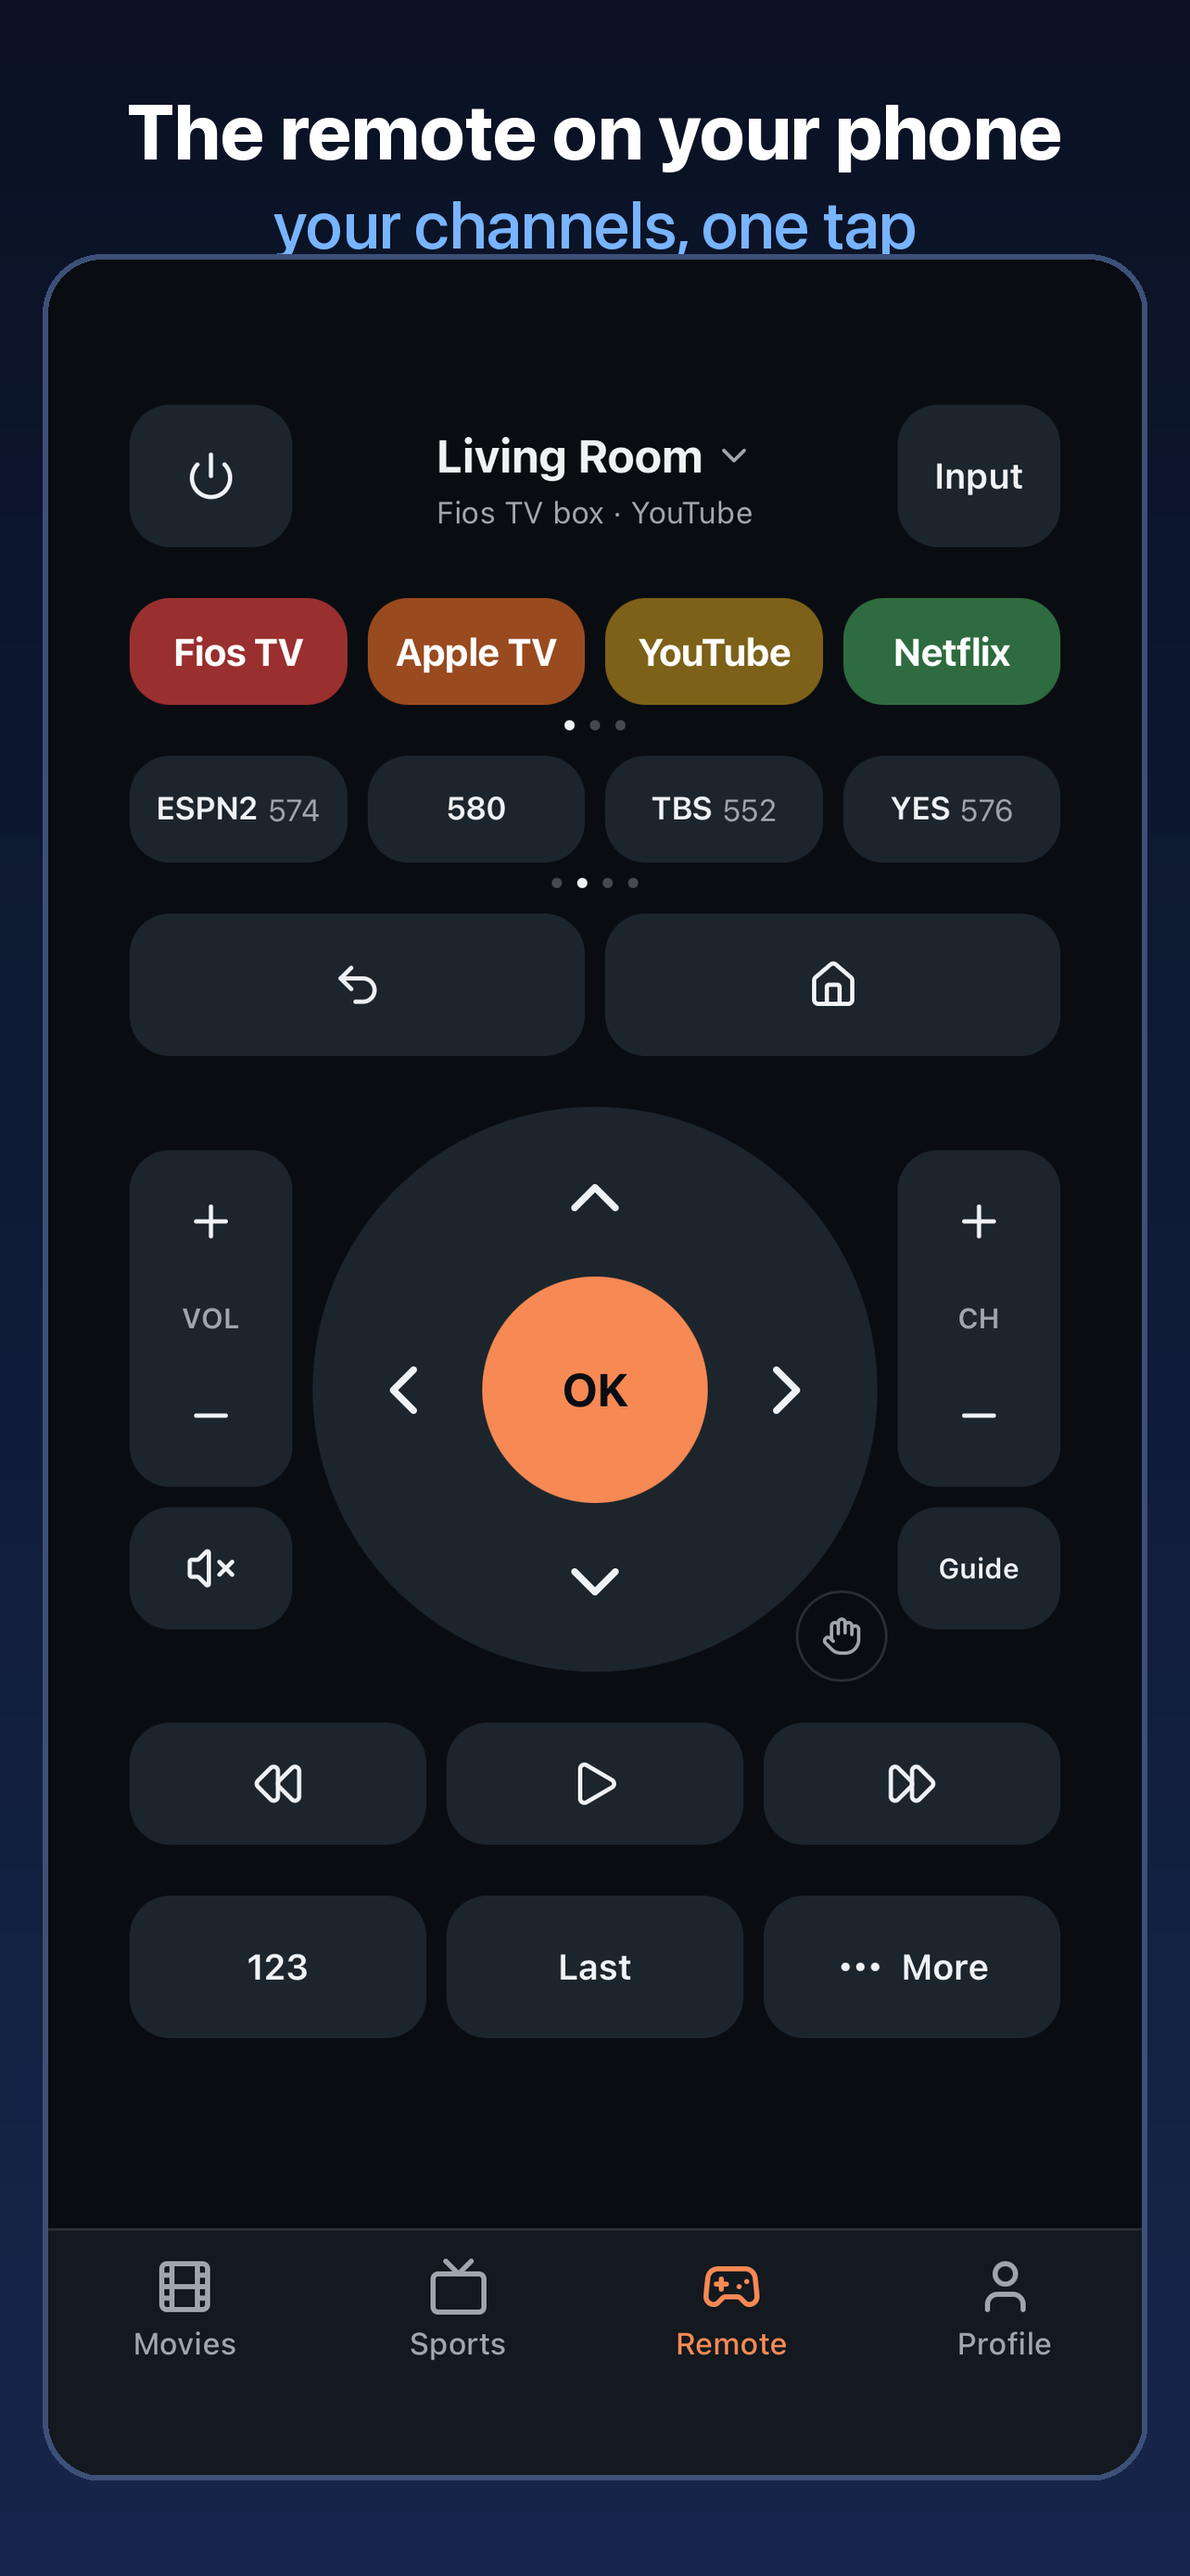
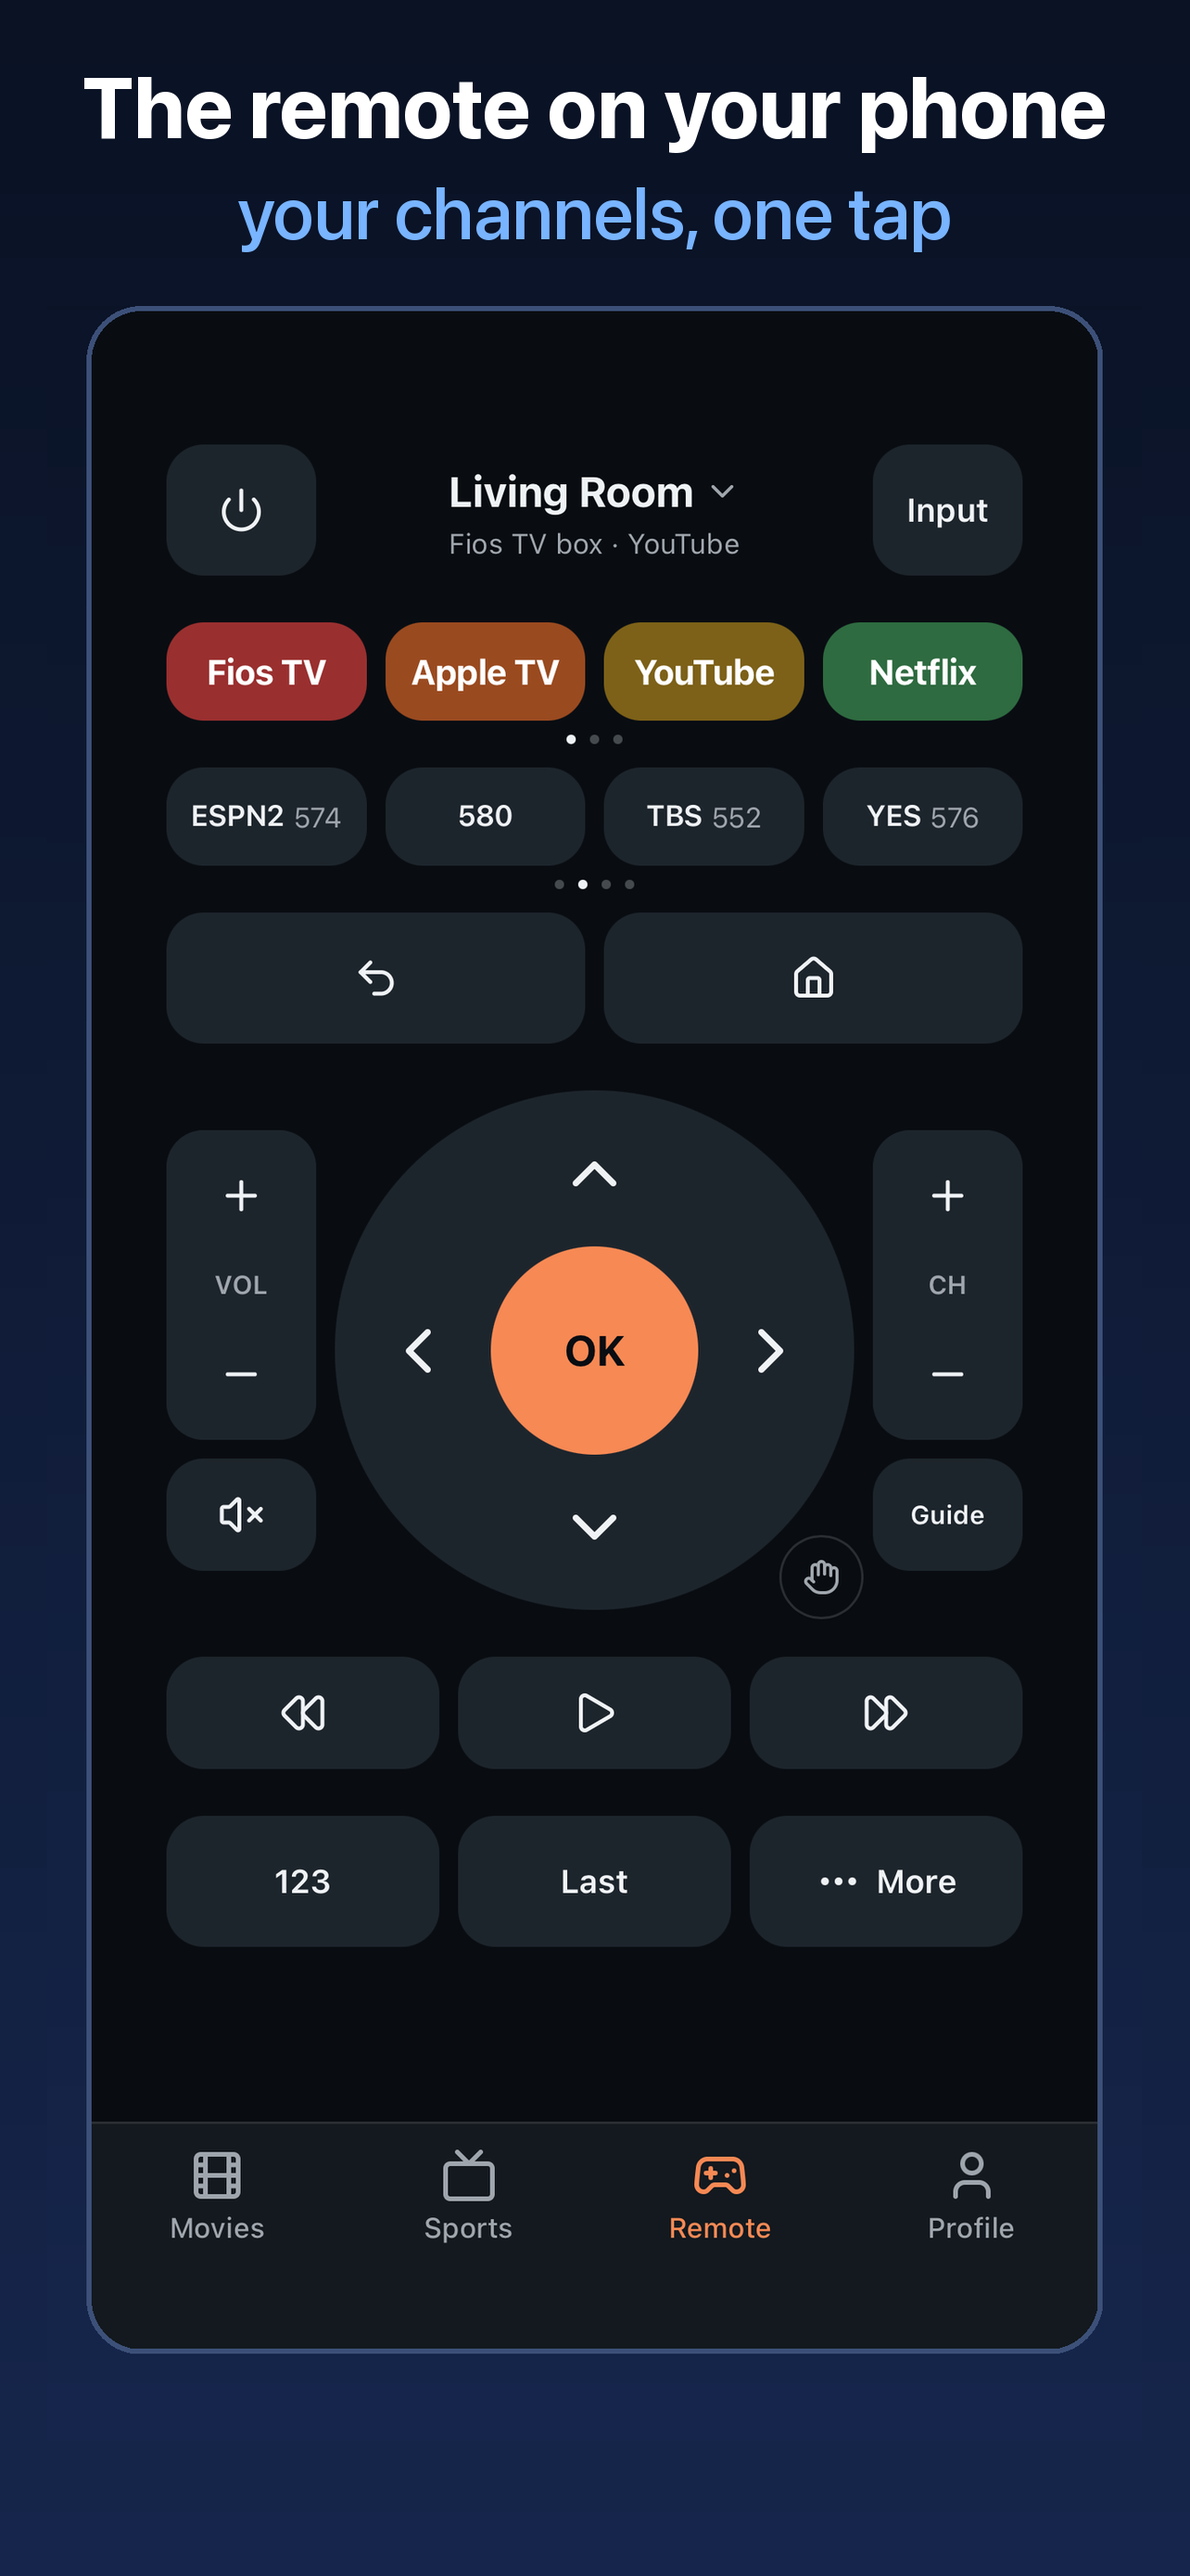
1.0.19 store review: real iPad screens, captions clear of the frame, no footer on the ask shot, one brand-free promo text, accurate subtitle, reviewer steps include Your teams

diff --git a/docs/app-store-screenshots/1.0.19/fix_1019.py b/docs/app-store-screenshots/1.0.19/fix_1019.py
@@ -1,0 +1,68 @@
+# Fixes on the 1.0.19 set: captions clear of the frame, no empty footer on the ask shot,
+# iPad images from real iPad captures (one screen, as the app runs there).
+#   python3 fix_1019.py /tmp/store/ipad
+import sys
+from PIL import Image, ImageDraw, ImageFont
+
+SF = "/System/Library/Fonts/SFNS.ttf"
+def font(size, weight):
+    f = ImageFont.truetype(SF, size)
+    f.set_variation_by_axes([100, 28, 400, weight])
+    return f
+
+def backdrop(w, h):
+    bg = Image.new("RGB", (w, h)); d = ImageDraw.Draw(bg)
+    for y in range(h):
+        t = y / h
+        d.line([(0, y), (w, y)], fill=(int(10 + 12 * t), int(18 + 20 * t), int(36 + 40 * t)))
+    return bg, d
+
+def rounded(im, r):
+    m = Image.new("L", im.size, 0)
+    ImageDraw.Draw(m).rounded_rectangle((0, 0, im.width - 1, im.height - 1), r, fill=255)
+    im = im.convert("RGBA"); im.putalpha(m); return im
+
+def captions(d, W, l1, l2, s1, s2, y1, y2):
+    for text, f, y, c in ((l1, font(s1, 760), y1, (255, 255, 255)), (l2, font(s2, 520), y2, (120, 180, 255))):
+        d.text(((W - d.textlength(text, font=f)) / 2, y), text, font=f, fill=c)
+
+def frame_top(im):
+    x = 200
+    return next(y for y in range(200, 700) if sum(abs(a - b) for a, b in zip(im.getpixel((x, y)), (60, 80, 120))) < 40)
+
+def recaption(name, l1, l2):
+    im = Image.open(name).convert("RGB"); W, H = im.size
+    top = frame_top(im)
+    body = im.crop((0, top, W, H))
+    k = 0.92
+    body = body.resize((int(W * k), int(body.height * k)), Image.LANCZOS)
+    bg, d = backdrop(W, H)
+    bg.paste(body, ((W - body.width) // 2, 330))
+    captions(d, W, l1, l2, 92, 80, 60, 180)
+    bg.save(name); print("recaptioned", name)
+
+recaption("iphone-6.5-3-remote.png", "The remote on your phone", "your channels, one tap")
+recaption("iphone-6.5-7-swipe.png", "Prefer to swipe?", "tap the corner to switch")
+
+# Ask: the TMDB block sits mid-screen under a short chat. Same screen color over it.
+im = Image.open("iphone-6.5-2-ask.png").convert("RGB")
+fill = im.getpixel((640, 1900))
+ImageDraw.Draw(im).rectangle((150, 1440, 1134, 1760), fill=fill)
+im.save("iphone-6.5-2-ask.png"); print("ask footer cleared", fill)
+
+PAD = sys.argv[1]
+W, H = 2064, 2752
+for n, (src, l1, l2) in enumerate([
+    ("1-sports", "Tonight's game, your channel", "and one tap puts it on"),
+    ("4-remote", "The remote for your TV", "channels and apps, one tap"),
+], 1):
+    bg, d = backdrop(W, H)
+    captions(d, W, l1, l2, 120, 104, 120, 270)
+    shot = Image.open(f"{PAD}/{src}.png").convert("RGB")
+    sw = 1720; shot = shot.resize((sw, int(shot.height * sw / shot.width)), Image.LANCZOS)
+    top = 470; shot = shot.crop((0, 0, sw, min(shot.height, H - top - 40)))
+    x = (W - sw) // 2
+    border = rounded(Image.new("RGB", (sw + 12, shot.height + 12), (60, 80, 120)), 52)
+    bg.paste(border, (x - 6, top - 6), border)
+    r = rounded(shot, 46); bg.paste(r, (x, top), r)
+    out = f"ipad-13-{n}-{src[2:]}.png"; bg.save(out); print(out, bg.size)

diff --git a/docs/app-store-1.0.19.md b/docs/app-store-1.0.19.md
@@ -1,7 +1,8 @@
 # App Store submission: 1.0.19 (build 39)
 
 Build: tag `tunedtv-1.0.19-39` (commit 8668bce), uploaded by EAS Submit 2026-11-06.
-The app loads tunedtv.com, so the web features below are already live for every user.
+The app loads tunedtv.com, so web changes reach every user when tuned-tv-finder is published.
+Publish before submitting: the reviewer sees whatever tunedtv.com serves that day.
 
 ## What's New (paste into "What's New in This Version")
 
@@ -13,11 +14,6 @@ New in TunedTV:
 • Simpler setup: pick sports, movies or both, and TunedTV sets itself up around you.
 • Fixes and improvements.
 
-## Promotional text (optional, 170)
-
-Change the channel on your cable box, open Netflix on your TV, and find the right channel
-for tonight's game. One remote for LG, Roku, Google TV, Fios and DIRECTV.
-
 ## App Review notes (paste into "Notes" under App Review Information)
 
 No account is needed. Sign in is optional.
@@ -25,6 +21,7 @@ No account is needed. Sign in is optional.
 TunedTV controls TVs and cable boxes on the same Wi-Fi as the phone. If there is no
 compatible TV where you are testing, use the built-in demo TV:
 1. On first launch pick "Live sports", enter ZIP 10001, choose provider "Fios", Continue.
+   On "Your teams" pick any team (or none) and tap Continue again.
 2. On "Your TV", tap "No TV here? Try the demo TV". The remote opens with a demo screen
    that shows each channel, app, and volume change.
    (Later: Remote tab or Profile > My TVs > "No TV here? Try the demo TV".)
@@ -52,19 +49,30 @@ iPhone 6.5" (1284x2778), from the real phone 2026-11-06, status bar removed:
 6. `iphone-6.5-8-free.png` Free movies, no subscription
 7. `iphone-6.5-7-swipe.png` Prefer to swipe? Tap the corner to switch
 
-`iphone-6.5-8-free.png` is his phone, cropped so the cut-off row above and the TMDB legal block are gone. The free row is the pitch. Discover and In Theaters still sit at the bottom of that photo; the app is moving them up, so retake this one frame after the next publish if the store shots should match the new layout.
+Retake after the next publish, so they match what the reviewer sees:
+- `6-ontv`: a title on more than one service now shows "Choose where to watch" instead of one
+  Play button, and the trailer button now says phone or TV. Pick a title on one service, or
+  shoot the new choice list. The Jaws 2 art is also the most studio-owned image in the set.
+- `8-free`: Discover and In Theaters moved to the top of Movies; this photo still shows them low.
 
-iPad 13" (2064x2752): `ipad-13-1-sports.png` (the game and the real remote, side by side)
+iPad 13" (2064x2752), the real iPad capture (the app runs as one centered column there):
+1. `ipad-13-1-sports.png` Tonight's game, your channel
+2. `ipad-13-2-remote.png` The remote for your TV
+Not two phone screens side by side: App Review rejects iPad shots that show iPhone screens.
 
 Rebuild: `VW=428 VH=926 DSF=3 SHOTS=/tmp/store/ip node scripts/phone-sim.mjs https://tunedtv.com
 $PWD/scripts/phone-sim/store-shots.mjs` (and `VW=1032 VH=1376 DSF=2` for iPad) in tuned-tv-finder,
-then `python3 frame_1019.py /tmp/store/ip /tmp/store/ipad` here.
+then `python3 frame_1019.py /tmp/store/ip /tmp/store/ipad` here, then `python3 fix_1019.py /tmp/store/ipad`
+(captions clear of the frame, no TMDB block on the ask shot, real iPad screens).
 
 ## Listing text (App Information / version page; all within Apple's limits)
 
 - Name (26/30): `TunedTV: Remote & TV Guide`
-- Subtitle (29/30): `Universal remote for every TV`
-- Keywords (95/100): `universal remote,tv remote,cable box,channel guide,live tv,sports,where to watch,streaming,game`
+- Subtitle (30/30): `The remote that finds the game`
+  Not "for every TV": the app works with LG, Roku, Google TV, Fios and DIRECTV, and the TV step says so.
+  Guideline 2.3.1 wants metadata to match what the app does.
+- Keywords (96/100): `universal,cable box,channel,live,sports,game,where to watch,streaming,movies,shows,cast,football`
+  Words already in the name and subtitle (remote, TV, guide) are searched anyway, so they aren't repeated here.
   No company or brand names: guideline 2.3.7 says metadata can't be packed with trademarked terms
   or other companies' names, and the keyword field is where that gets rejected.
 - Promotional text (147/170, can change any time without review):
@@ -77,6 +85,7 @@ text, screenshot captions) name nobody.
 
 ## Steps in App Store Connect
 
+0. Publish tuned-tv-finder (Lovable) so tunedtv.com has tonight's fixes.
 1. Apps > TunedTV > "+" next to iOS App > version 1.0.19.
 2. Paste What's New, the subtitle, keywords and promotional text. Replace the screenshots with the set above, in order.
 3. Build: choose 1.0.19 (39) once it says "Ready to Submit" (Apple processing, usually 15-30 min).
